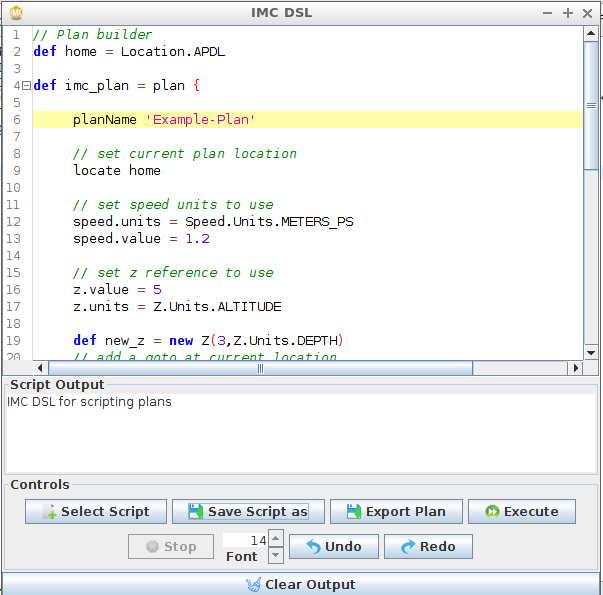
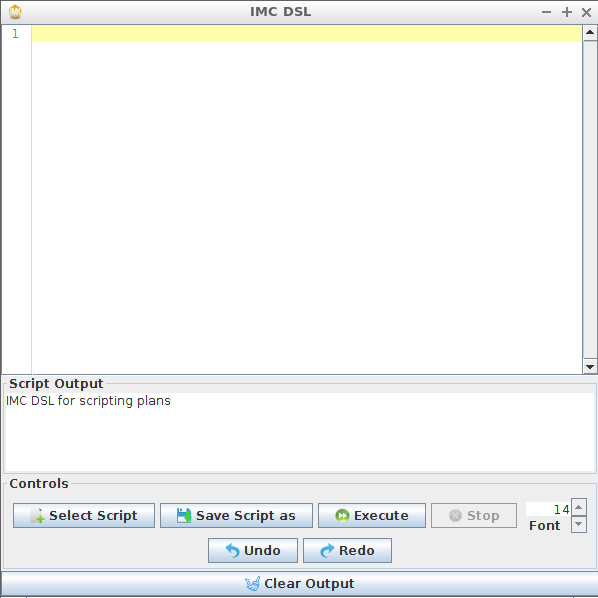
Removed WIP export button.

Changed region(s): [[0.0, 0.0, 1.0, 1.0], [0.1204, 0.3328, 0.602, 0.4235], [0.2408, 0.121, 0.3311, 0.1513]]

diff --git a/src/main/java/pt/lsts/imc/dsl/standalone/Console.java b/src/main/java/pt/lsts/imc/dsl/standalone/Console.java
@@ -36,7 +36,7 @@ import javax.swing.event.ChangeEvent;
 import javax.swing.event.ChangeListener;
 import javax.swing.event.UndoableEditEvent;
 import javax.swing.event.UndoableEditListener;
-import javax.swing.filechooser.FileNameExtensionFilter;
+//import javax.swing.filechooser.FileNameExtensionFilter;
 import javax.swing.text.BadLocationException;
 
 import org.fife.ui.rsyntaxtextarea.RSyntaxTextArea;
@@ -119,7 +119,7 @@ public class Console extends JFrame{
 	JScrollPane outputPanel;
 	JTextArea output;
 	RSyntaxTextArea editor; 
-	JButton select,execButton,stop,saveFile,export,undo,redo;
+	JButton select,execButton,stop,saveFile,undo,redo;
 	RTextScrollPane scroll;
 	SpinnerModel model = new SpinnerNumberModel(14, 2, 32, 1);     
 	JSpinner spinner = new JSpinner(model);
@@ -158,33 +158,33 @@ public class Console extends JFrame{
 
     };
     
-    Action exportAction = new AbstractAction("Export Plan",getIcon("icons/save.png",15,15)) {
-
-        @Override
-        public void actionPerformed(ActionEvent e) {
-            if(shell!=null && script!=null){
-            	File directory = scriptDir;
-                final JFileChooser fc = new JFileChooser(directory);
-                fc.setFileSelectionMode(JFileChooser.FILES_ONLY);
-                FileNameExtensionFilter filter = new FileNameExtensionFilter("Export Format","xml","json");
-                FileNameExtensionFilter filter1 = new FileNameExtensionFilter("xml","xml");
-                FileNameExtensionFilter filter2 = new FileNameExtensionFilter("json","json");
-                fc.setAcceptAllFileFilterUsed(false);
-                fc.setFileFilter(filter);
-                fc.addChoosableFileFilter(filter1);
-                fc.addChoosableFileFilter(filter2);
-                // Demonstrate "Save" dialog:
-                int rVal = fc.showDialog(Console.this,"Export");
-                if (rVal == JFileChooser.APPROVE_OPTION) {
-                   String path  = fc.getSelectedFile().getAbsolutePath();
-                   String file = path.substring(path.lastIndexOf("/"));
-                   String extension = file.substring(file.indexOf("."));
-                   shell.exportPlan(path,extension);
-                }
-            	
-            }
-        }
-    };
+//    Action exportAction = new AbstractAction("Export Plan",getIcon("icons/save.png",15,15)) {
+//
+//        @Override
+//        public void actionPerformed(ActionEvent e) {
+//            if(shell!=null && script!=null){
+//            	File directory = scriptDir;
+//                final JFileChooser fc = new JFileChooser(directory);
+//                fc.setFileSelectionMode(JFileChooser.FILES_ONLY);
+//                FileNameExtensionFilter filter = new FileNameExtensionFilter("Export Format","xml","json");
+//                FileNameExtensionFilter filter1 = new FileNameExtensionFilter("xml","xml");
+//                FileNameExtensionFilter filter2 = new FileNameExtensionFilter("json","json");
+//                fc.setAcceptAllFileFilterUsed(false);
+//                fc.setFileFilter(filter);
+//                fc.addChoosableFileFilter(filter1);
+//                fc.addChoosableFileFilter(filter2);
+//                // Demonstrate "Save" dialog:
+//                int rVal = fc.showDialog(Console.this,"Export");
+//                if (rVal == JFileChooser.APPROVE_OPTION) {
+//                   String path  = fc.getSelectedFile().getAbsolutePath();
+//                   String file = path.substring(path.lastIndexOf("/"));
+//                   String extension = file.substring(file.indexOf("."));
+//                   shell.exportPlan(path,extension);
+//                }
+//            	
+//            }
+//        }
+//    };
 
    
     
@@ -303,7 +303,7 @@ public class Console extends JFrame{
     execButton = new JButton(execAction);
     select     = new JButton(selectAction);
     stop       = new JButton(stopAction);
-    export     = new JButton(exportAction);
+    //export     = new JButton(exportAction);
     saveFile   = new JButton(saveAction);
     undo       = new JButton(undoAction);
     redo       = new JButton(redoAction);
@@ -343,7 +343,7 @@ public class Console extends JFrame{
     //middle section
     buttons.add(select);
     buttons.add(saveFile);
-    buttons.add(export);
+    //buttons.add(export);
     buttons.add(execButton);
     buttons.add(stop);
     buttons.add(spinner);
@@ -353,7 +353,7 @@ public class Console extends JFrame{
     
     //onHover tool tip text
     select.setToolTipText("Select File");
-    export.setToolTipText("Export Plan Specification");
+    //export.setToolTipText("Export Plan Specification");
     spinner.setToolTipText("Adjust Editor's Font Size");
     saveFile.setToolTipText("Save Current File as...");
     undo.setToolTipText("Ctrl+Z");
